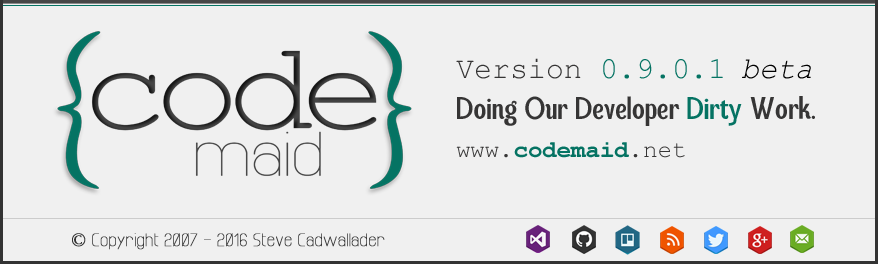
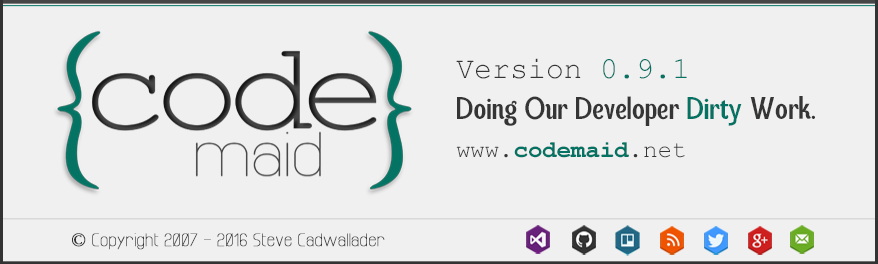
Update to v0.9.1 label.

diff --git a/CodeMaid/CodeMaidPackage.cs b/CodeMaid/CodeMaidPackage.cs
@@ -48,7 +48,7 @@ namespace SteveCadwallader.CodeMaid
     /// the shell.
     /// </summary>
     [PackageRegistration(UseManagedResourcesOnly = true)] // Tells Visual Studio utilities that this is a package that needs registered.
-    [InstalledProductRegistration("#110", "#112", "v0.9.0.2 BETA", IconResourceID = 400, LanguageIndependentName = "CodeMaid")] // VS Help/About details (Name, Description, Version, Icon).
+    [InstalledProductRegistration("#110", "#112", "v0.9.1", IconResourceID = 400, LanguageIndependentName = "CodeMaid")] // VS Help/About details (Name, Description, Version, Icon).
     [ProvideAutoLoad("ADFC4E64-0397-11D1-9F4E-00A0C911004F")] // Force CodeMaid to load on startup so menu items can determine their state.
     [ProvideBindingPath]
     [ProvideMenuResource(1000, 1)] // This attribute is needed to let the shell know that this package exposes some menus.

diff --git a/GlobalAssemblyInfo.cs b/GlobalAssemblyInfo.cs
@@ -21,5 +21,5 @@ using System.Runtime.InteropServices;
 [assembly: CLSCompliant(false)]
 [assembly: ComVisible(false)]
 [assembly: NeutralResourcesLanguage("en-US")]
-[assembly: AssemblyVersion("0.9.0.2")]
-[assembly: AssemblyFileVersion("0.9.0.2")]
+[assembly: AssemblyVersion("0.9.1.0")]
+[assembly: AssemblyFileVersion("0.9.1.0")]
